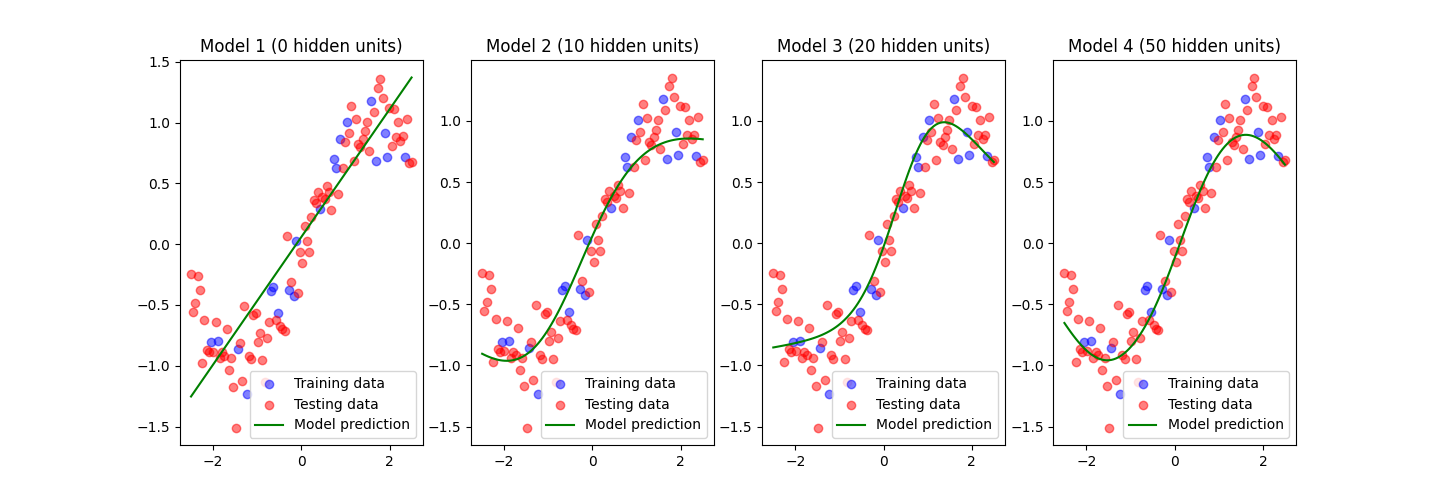
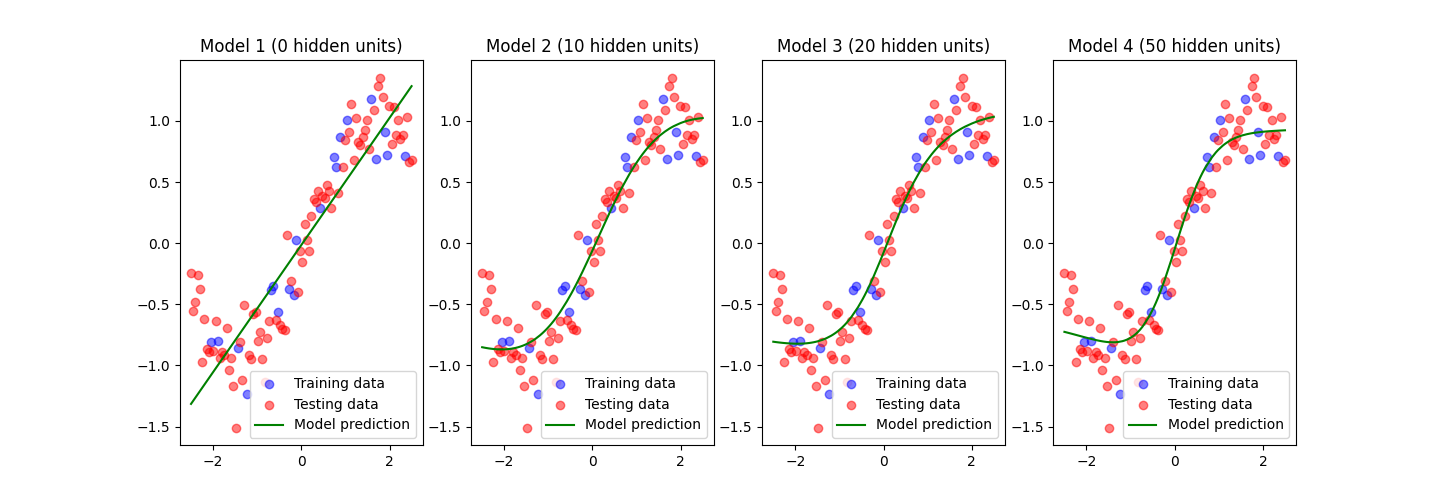
updated code and figures

diff --git a/hw3/SELIM_CAVAS_HW3.py b/hw3/SELIM_CAVAS_HW3.py
@@ -2,21 +2,6 @@ import numpy as np
 import pandas as pd
 import matplotlib.pyplot as plt
 
-# Load data
-train_df = pd.read_csv('train.csv')
-test_df = pd.read_csv('test.csv')
-
-train_x = train_df['x'].values
-train_r = train_df['r'].values
-test_x = test_df['x'].values
-test_r = test_df['r'].values
-
-# Add bias term to inputs
-train_x = train_x.reshape(-1, 1)
-test_x = test_x.reshape(-1, 1)
-train_x = np.concatenate((train_x, np.ones((len(train_x), 1))), axis=1)
-test_x = np.concatenate((test_x, np.ones((len(test_x), 1))), axis=1)
-
 # Define activation functions
 def sigmoid(x):
     return 1 / (1 + np.exp(-x))
@@ -24,63 +9,115 @@ def sigmoid(x):
 def sigmoid_derivative(x):
     return sigmoid(x) * (1 - sigmoid(x))
 
-# Single-layer perceptron
+# Single Layer Perceptron
 class Perceptron:
-    def __init__(self, input_dim):
-        self.weights = np.random.randn(input_dim, 1)
-    
-    def train(self, x, y, lr):
-        y_pred = np.dot(x, self.weights) 
-        mse = np.mean((y - y_pred)**2)
+    def __init__(self, input_dim, output_dim):
+        self.input_dim = input_dim
+        self.output_dim = output_dim
+        self.w1 = np.random.randn(self.input_dim, self.output_dim)
+        self.b1 = np.zeros((1, self.output_dim)) 
+        self.out = None
+        self.train_mse = None
+        self.test_mse = None
         
-        error = y.reshape(-1, 1) - y_pred
-        delta = error
+    def forward(self, x):
+        self.z1 = np.dot(x, self.w1) + self.b1
+        self.a1 = self.z1
+        return self.a1
 
-        self.weights += lr * np.dot(x.reshape(-1, 1), delta)
-            
-        return mse
+    def backward(self, x, y, lr):
     
-    def predict(self, x):
-        return np.dot(x, self.weights)
+        z1 = self.a1 - y
+        w1 = np.dot(x.T, z1)
+        b1 = np.sum(z1, axis=0)
+        
+        self.w1 -= lr * w1
+        self.b1 -= lr * b1
+        
+    def train(self, x, y, epochs, lr):
+        for _ in range(epochs):
+            out = self.forward(x)
+            self.backward(x, y, lr)
+            self.train_mse = np.mean((y - out)**2)
+            
 
+    def predict(self, x):
+        out = self.forward(x)
+        self.out = out
+        self.test_mse = np.mean((test_r - out)**2)
+        return out
+    
 
 # Multi-layer perceptron
 class MLP:
     def __init__(self, input_dim, hidden_dim, output_dim):
-        self.weights1 = np.random.randn(input_dim, hidden_dim)
-        self.bias1 = np.random.randn(1, hidden_dim)
-        self.weights2 = np.random.randn(hidden_dim, output_dim)
-        self.bias2 = np.random.randn(1, output_dim)
-    
-    def train(self, x, y, lr):
-        # Forward pass
-        hidden_layer = sigmoid(np.dot(x, self.weights1) + self.bias1)
-        y_pred = np.dot(hidden_layer, self.weights2) + self.bias2
-        mse = np.mean((y - y_pred)**2)
+        self.input_dim = input_dim
+        self.hidden_dim = hidden_dim
+        self.output_dim = output_dim
+        self.weights1 = np.random.randn(self.input_dim, self.hidden_dim)
+        self.bias1 = np.zeros((1, self.hidden_dim))
+        self.weights2 = np.random.randn(self.hidden_dim, self.output_dim)
+        self.bias2 = np.zeros((1, self.output_dim))
+        self.out = None
+        self.train_mse = None
+        self.test_mse = None
 
-        # Backward pass
-        error = y.reshape(-1,1) - y_pred
-        delta = error * sigmoid_derivative(y_pred)
-        hidden_error = np.dot(delta, self.weights2.T)
-        hidden_delta = hidden_error * sigmoid_derivative(hidden_layer)
-        self.weights2 += lr * np.dot(hidden_layer.T, delta)
-        self.bias2 += lr * np.sum(delta, axis=0, keepdims=True)
-        self.weights1 += lr * np.dot(x.T, hidden_delta)
-        self.bias1 += lr * np.sum(hidden_delta, axis=0, keepdims=True)
+    def forward(self, x):
+        # First layer
+        self.z1 = np.dot(x, self.weights1) + self.bias1
+        self.a1 = sigmoid(self.z1)
 
-        return mse
+        # Second layer
+        self.z2 = np.dot(self.a1, self.weights2) + self.bias2
+        self.a2 = self.z2 
 
-    
+        return self.a2
+
+    def backward(self, x, y, learning_rate):
+
+        n = x.shape[0]
+
+        delta2 = self.a2 - y
+        d_weights2 = (1/n) * np.dot(self.a1.T, delta2)
+        d_bias2 = (1/n) * np.sum(delta2, axis=0, keepdims=True)
+
+        delta1 = np.dot(delta2, self.weights2.T) * sigmoid_derivative(self.a1)
+        d_weights1 = (1/n) * np.dot(x.T, delta1)
+        d_bias1 = (1/n) * np.sum(delta1, axis=0, keepdims=True)
+
+        # Update weights and biases
+        self.weights1 -= learning_rate * d_weights1
+        self.bias1 -= learning_rate * d_bias1
+        self.weights2 -= learning_rate * d_weights2
+        self.bias2 -= learning_rate * d_bias2
+
+    def train(self, x, y, epochs, lr):
+        for _ in range(epochs):
+            out = self.forward(x)
+            self.backward(x, y, lr)
+            self.train_mse = np.mean((y - out)**2)
+
     def predict(self, x):
-        hidden_layer = sigmoid(np.dot(x, self.weights1) + self.bias1)
-        return np.dot(hidden_layer, self.weights2) + self.bias2
+        out = self.forward(x)
+        self.out = out
+        self.test_mse = np.mean((test_r - out)**2)
+        return out
 
+
+# Load data and sort
+train_df = pd.read_csv('train.csv').sort_values(by=['x'])
+test_df = pd.read_csv('test.csv').sort_values(by=['x'])
+
+train_x = train_df['x'].values.reshape(-1, 1)
+train_r = train_df['r'].values.reshape(-1, 1)
+test_x = test_df['x'].values.reshape(-1, 1)
+test_r = test_df['r'].values.reshape(-1, 1)
 
 # Train and evaluate models
-perceptron = Perceptron(input_dim=train_x.shape[1])
-mlp10 = MLP(input_dim=train_x.shape[1], hidden_dim=10, output_dim=1)
-mlp20 = MLP(input_dim=train_x.shape[1], hidden_dim=20, output_dim=1)
-mlp50 = MLP(input_dim=train_x.shape[1], hidden_dim=50, output_dim=1)
+perceptron = Perceptron(input_dim=train_x.shape[-1], output_dim=1)
+mlp10 = MLP(input_dim=train_x.shape[-1], hidden_dim=10, output_dim=1)
+mlp20 = MLP(input_dim=train_x.shape[-1], hidden_dim=20, output_dim=1)
+mlp50 = MLP(input_dim=train_x.shape[-1], hidden_dim=50, output_dim=1)
 
 models = [perceptron, mlp10, mlp20, mlp50]
 num_hidden_units = [0, 10, 20, 50]
@@ -88,31 +125,23 @@ num_hidden_units = [0, 10, 20, 50]
 train_mse = []
 test_mse = []
 
-# Train models and record MSE
-for model in models:
-    train_mse_history = []
-    for epoch in range(1000):
-        train_mse_epoch = []
-        for i in range(train_x.shape[0]):
-            x = train_x[i].reshape(1,-1)
-            y = train_r[i].reshape(1,-1)
-            mse = model.train(x, y, lr=0.26)
-            train_mse_epoch.append(mse)
-        train_mse_history.append(np.mean(train_mse_epoch))
-    train_mse.append(train_mse_history[-1])
-    test_mse.append(np.mean((test_r - model.predict(test_x))**2))
 
-# Plot results
+# Plot prediction results
 fig, axs = plt.subplots(1, 4, figsize=(20, 5))
 for i, model in enumerate(models):
-    axs[i].scatter(train_x[:, 0], train_r, color='blue', alpha = 0.5, label='Training data')
-    axs[i].scatter(test_x[:, 0], test_r, color='red', alpha = 0.5, label='Testing data')
-    x_range = np.linspace(test_x[:, 0].min(), test_x[:, 0].max(), 100) # Generate 100 points between min and max x values to smooth out the line
-    y_range = model.predict(np.concatenate((x_range.reshape(-1, 1), np.ones((len(x_range), 1))), axis=1))
-    axs[i].plot(x_range, y_range, color='green', label='Model prediction')
+    model.train(train_x, train_r, epochs=2000, lr=0.03)
+    model.predict(test_x)
+
+    train_mse.append(model.train_mse)
+    test_mse.append(model.test_mse)
+
+    axs[i].scatter(train_x, train_r, color='blue', alpha = 0.5, label='Training data')
+    axs[i].scatter(test_x, test_r, color='red', alpha = 0.5, label='Testing data')
+    axs[i].plot(test_x, model.out, color='green', label='Model prediction')
     axs[i].legend()
     axs[i].set_title(f'Model {i+1} ({num_hidden_units[i]} hidden units)')
-plt.show()
+    
+plt.show() 
 
 # Plot network complexity vs error
 plt.plot(num_hidden_units, train_mse, label='Training MSE')
@@ -121,4 +150,3 @@ plt.xlabel('Number of hidden units')
 plt.ylabel('Mean squared error')
 plt.legend()
 plt.show()
-
